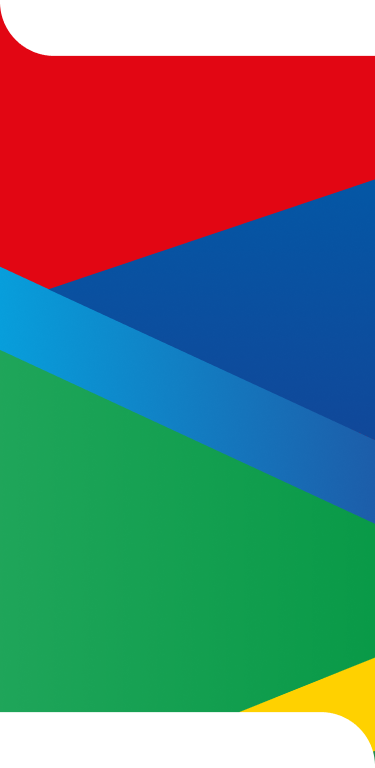
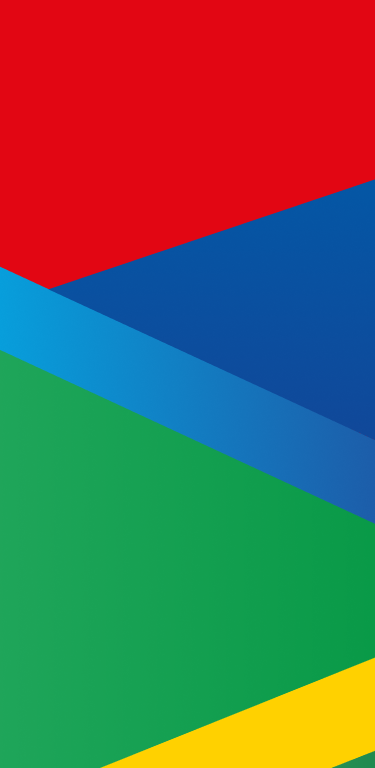
Section 5 adicionada.

Changed region(s): [[0.0, 0.0, 1.0, 0.0938], [0.0, 0.9062, 1.0, 1.0]]

diff --git a/html/homework/homework-5/index.html b/html/homework/homework-5/index.html
@@ -92,33 +92,50 @@
     </section>
 
     <section class="section-4">
-        <div class="section-4-container">
-            <img src="./assets/image/s4-bg.png" alt="Mulher segurando um celular">
-            <img src="./assets/icon/logo-tokners-simple.svg">
-            <h3>Weentar is coming</h3>
-            <div>
-                <p>
-                    Cryptocurrency adoption is at less than 1% of the global world population with some countries and
-                    entities actively fighting against its mass adoption and the smartest developers and nerds holding
-                    the fort.
-                </p>
-                <p>
+        <div class="bg-red">
+            <div class="rounded-right">
+                <div class="section-4-container">
+                    <img src="./assets/image/s4-bg.png" alt="Mulher segurando um celular">
+                    <img src="./assets/icon/logo-tokners-simple.svg">
+                    <h3>Weentar is coming</h3>
+                    <div>
+                        <p>
+                            Cryptocurrency adoption is at less than 1% of the global world population with some countries and
+                            entities actively fighting against its mass adoption and the smartest developers and nerds holding
+                            the fort.
+                        </p>
+                        <p>
 
-                    Bitcoin was the first, and it has since grown to thousands of tokens launched all aiming to fix one
-                    problem or the other with some quite simply FOMOing the moment. Our goal is to bring mass adoption
-                    to the cryptocurrency space by dumbing it down. How far down? So down that even a celebrity can
-                    explain it in simple words to their followers and have them download an app, buy into the social
-                    currency of their favourite person and watch their
-                    investment as is with other crypto currency project.
-                </p>
+                            Bitcoin was the first, and it has since grown to thousands of tokens launched all aiming to fix one
+                            problem or the other with some quite simply FOMOing the moment. Our goal is to bring mass adoption
+                            to the cryptocurrency space by dumbing it down. How far down? So down that even a celebrity can
+                            explain it in simple words to their followers and have them download an app, buy into the social
+                            currency of their favourite person and watch their
+                            investment as is with other crypto currency project.
+                        </p>
+                    </div>
+                    <img class="shadow-image" src="./assets/image/s4-shadow.svg">
+                </div>
+                <a href="#" class="text-green">Learn More </a>
             </div>
-            <img class="shadow-image" src="./assets/image/s4-shadow.svg">
         </div>
-        <a href="#" class="text-green">Learn More </a>
+
     </section>
 
     <section class="section-5">
-        <h3>Presale Details</h3>
+        <div class="section-5-container">
+            <h3>Presale Details</h3>
+
+            <div class="card">
+                <img src="./assets/icon/s5-icon.svg">
+                <span class="card-title">Phase Two</span>
+                <small class="card-date">0/04/2021 - 16/04/2021</small>
+
+                <span class="card-comparation">1 BNB = 100000 WNTR</span>
+                <span class="card-cap">Soft cap: <span class="bold">5000 BNB</span></span>
+                <span class="card-cap">Hard cap: <span class="bold">10000 BNB</span></span>
+            </div>
+        </div>
     </section>
 </body>
 

diff --git a/html/homework/homework-5/section/section-5.css b/html/homework/homework-5/section/section-5.css
@@ -1,0 +1,57 @@
+.section-5 {
+  margin-top: -1px;
+  background-image: url(../assets/image/s5-bg.png);
+  padding-bottom: 120px;
+  background-position: bottom;
+}
+
+.section-5 .section-5-container {
+  padding: 60px 20px;
+}
+
+.section-5 .section-5-container h3 {
+  font-size: 2.25rem;
+  color: var(--white);
+  text-align: center;
+}
+
+.section-5 .section-5-container .card {
+  padding: 54px;
+  border-radius: 25px;
+  display: flex;
+  flex-direction: column;
+  align-items: center;
+  justify-content: center;
+  background-color: var(--white);
+  margin-top: 20px;
+}
+
+.section-5 .section-5-container .card .card-title {
+  font-size: 2rem;
+  font-weight: 700;
+}
+
+.section-5 .section-5-container .card .card-date {
+  font-size: 1.15rem !important;
+  font-weight: 700;
+  opacity: 0.8;
+  margin-bottom: 20px;
+}
+
+.section-5 .section-5-container .card .card-comparation {
+  font-size: 1.3rem;
+  font-weight: 700;
+  opacity: 0.8;
+  margin-bottom: 20px;
+}
+
+.section-5 .section-5-container .card .card-cap {
+  font-size: 1.15rem;
+  font-weight: 700;
+  opacity: 0.8;
+}
+
+.section-5 .section-5-container .card .bold {
+  opacity: 1 !important;
+  font-weight: 900;
+}

diff --git a/html/homework/homework-5/section/section-4.css b/html/homework/homework-5/section/section-4.css
@@ -1,20 +1,20 @@
 .section-4 {
-    padding-bottom: 140px;
+  /* padding-bottom: 140px; */
 }
 
 .section-4 .section-4-container {
-    padding: 20px;
-    color: white;
-    position: relative;
+  padding: 20px;
+  color: white;
+  position: relative;
 }
 
 .section-4 .section-4-container img:first-child {
-    margin-bottom: 50px;
+  margin-bottom: 50px;
 }
 
 .section-4 .section-4-container h3 {
-    font-size: 2.25rem;
-    margin: 8px 0 30px;
+  font-size: 2.25rem;
+  margin: 8px 0 30px;
 }
 
 .section-4 .section-4-container > div {
@@ -25,20 +25,24 @@
 
 .section-4 .section-4-container p {
   font-weight: 400;
-  opacity: .6;
+  opacity: 0.6;
 }
 
 .section-4 a {
-    padding: 0 20px;
-    text-decoration: underline;
-    font-size: 1.125rem;
-    font-weight: 900;
+  padding: 0 20px;
+  text-decoration: underline;
+  font-size: 1.125rem;
+  font-weight: 900;
+}
+
+.section-4 .rounded-right {
+  background-color: var(--black);
+  border-radius: 0 0 0 75px;
+  padding-bottom: 130px;
 }
 
 .shadow-image {
-    bottom: 0;
-    position: absolute;
-    width: 90%;
+  bottom: 0;
+  position: absolute;
+  width: 90%;
 }
-
-

diff --git a/html/homework/homework-5/css/global.css b/html/homework/homework-5/css/global.css
@@ -19,10 +19,15 @@ li {
   --blue: #2278d4;
   --blue-50: #00B4EC;
   --white: white;
+  --red: #e20613;
 }
 
 .bg-blue {
   background-color: var(--blue) !important;
+}
+
+.bg-red {
+  background-color: var(--red);
 }
 
 .text-blue {
